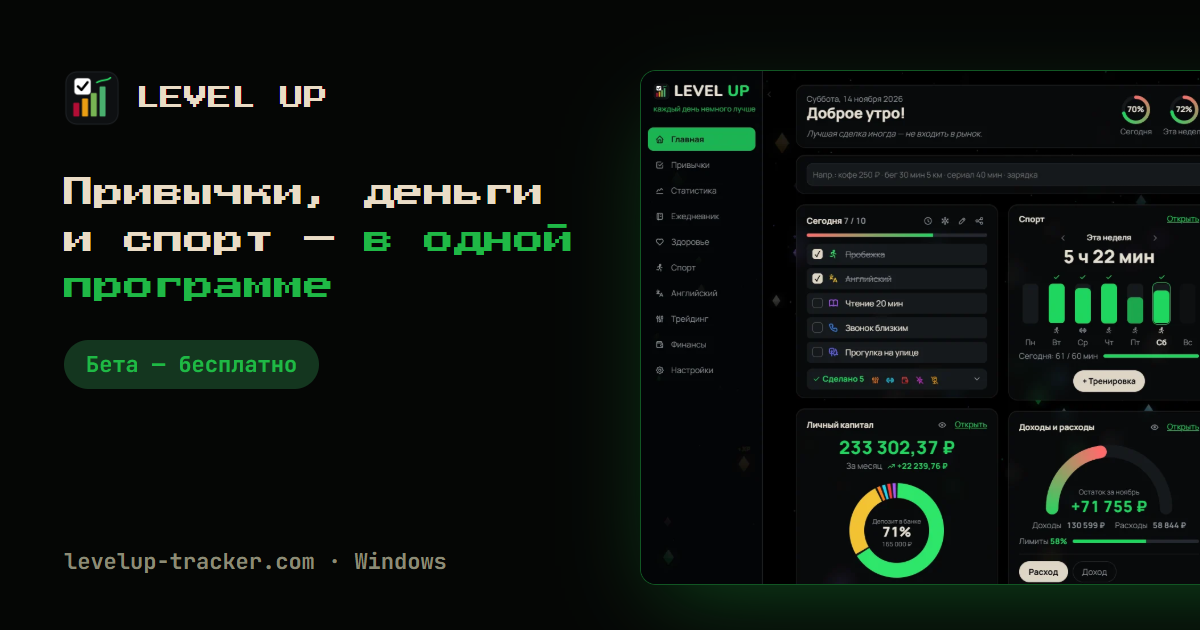
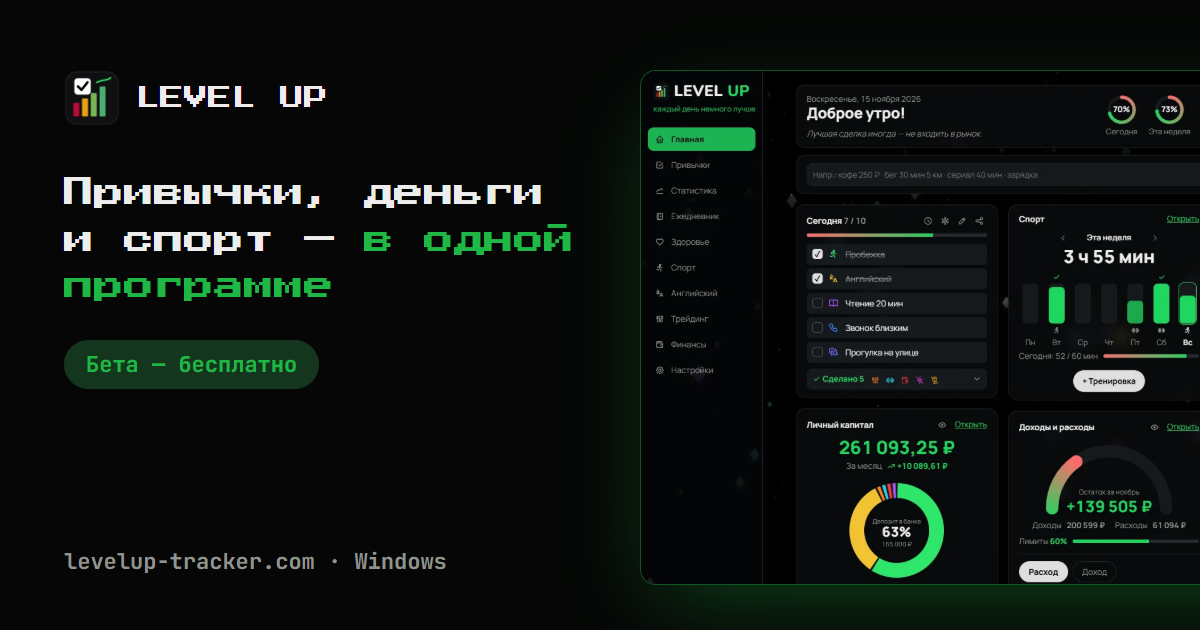
Social card: rebuilt from the current home shot, soft white text

diff --git a/tools/og.html b/tools/og.html
@@ -7,12 +7,12 @@
 @font-face{font-family:P;src:url(../fonts/press-start-2p-latin-400-normal.woff2);unicode-range:U+0000-00FF,U+2000-206F}
 @font-face{font-family:M;font-weight:700;src:url(../fonts/jetbrains-mono-cyrillic-700-normal.woff2);unicode-range:U+0400-045F}
 @font-face{font-family:M;font-weight:700;src:url(../fonts/jetbrains-mono-latin-700-normal.woff2);unicode-range:U+0000-00FF,U+2000-206F}
-html,body{margin:0;width:1200px;height:630px;overflow:hidden;background:#050605;color:#eadcc6;font-family:M}
+html,body{margin:0;width:1200px;height:630px;overflow:hidden;background:#050605;color:#ededed;font-family:M}
 .l{position:absolute;left:64px;top:70px;width:520px}
 .logo{display:flex;align-items:center;gap:16px;font-family:P;font-size:24px}.logo img{width:56px;height:56px;border-radius:12px}
 h1{font-family:P;font-weight:400;font-size:30px;line-height:1.55;margin:44px 0 30px}h1 b{color:#1fb846;font-weight:400}
 .pill{display:inline-block;padding:10px 22px;border-radius:999px;background:#14361f;color:#1fb846;font-size:22px;font-weight:700}
-.url{position:absolute;left:64px;bottom:54px;color:#8c8b76;font-size:22px;font-weight:700}
+.url{position:absolute;left:64px;bottom:54px;color:#8f948f;font-size:22px;font-weight:700}
 .shot{position:absolute;left:640px;top:70px;width:820px;border-radius:16px;border:1px solid rgba(31,184,70,.45);box-shadow:0 30px 90px -20px rgba(31,184,70,.35)}
 </style></head><body>
 <div class="l"><div class="logo"><img src="../img/icon.png" alt="">LEVEL UP</div>
